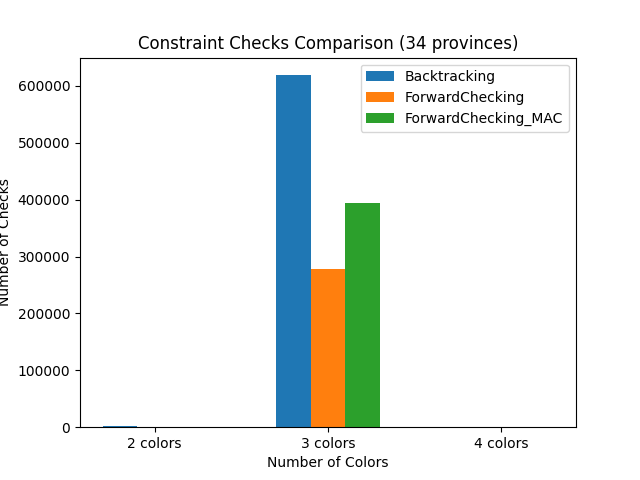
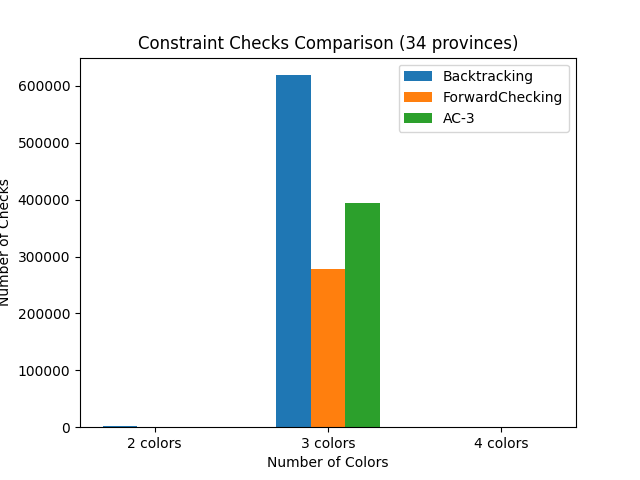
feat: implement AC-3 algorithm and integrate it into the map coloring experiment suite

Changed region(s): [[0.5625, 0.125, 0.875, 0.2812]]

diff --git a/experiments/run_34.py b/experiments/run_34.py
@@ -10,10 +10,12 @@ sys.path.insert(0, str(ROOT))
 
 from algorithms.csp import create_map_coloring_csp
 from algorithms.backtracking import BacktrackingSolver
+from algorithms.forward_checking import ForwardCheckingSolver
+from algorithms.ac3 import AC3Solver
 
 
-def run_backtracking(csp):
-    solver = BacktrackingSolver()
+def run_solver(solver_class, csp):
+    solver = solver_class()
     start = time.perf_counter()
     solution, steps, checks = solver.solve(csp)
     elapsed = time.perf_counter() - start
@@ -35,12 +37,33 @@ def main():
         colors_file=str(data / "colors.json"),
     )
 
-    print("Running CSP solver...")
+    print("Running CSP solvers for 34 regions...")
 
-    csp_copy = deepcopy(csp)
-    result = run_backtracking(csp_copy)
+    solvers = {
+        "Backtracking": BacktrackingSolver,
+        "Forward Checking": ForwardCheckingSolver,
+        "AC-3": AC3Solver
+    }
 
-    solution = result["solution"]
+    results_meta = {}
+    best_solution = None
+
+    for name, solver_class in solvers.items():
+        print(f"Running {name}...")
+        csp_copy = deepcopy(csp)
+        result = run_solver(solver_class, csp_copy)
+
+        results_meta[name] = {
+            "time": result["time"],
+            "steps": result["steps"],
+            "checks": result["checks"]
+        }
+
+        # Keep the first valid solution for frontend rendering
+        if best_solution is None:
+            best_solution = result["solution"]
+
+        print(f"  -> Time: {result['time']:.4f}s, Steps: {result['steps']}, Checks: {result['checks']}")
 
     # Save JSON for frontend
     out_path = ROOT / "experiments" / "results" / "solution_34.json"
@@ -48,15 +71,11 @@ def main():
 
     with out_path.open("w", encoding="utf-8") as f:
         json.dump({
-            "solution": solution,
-            "meta": {
-                "time": result["time"],
-                "steps": result["steps"],
-                "checks": result["checks"]
-            }
+            "solution": best_solution,
+            "meta": results_meta
         }, f, ensure_ascii=False, indent=2)
 
-    print(f"Saved solution to: {out_path}")
+    print(f"Saved aggregated solution to: {out_path}")
 
 
 if __name__ == "__main__":

diff --git a/experiments/run_63.py b/experiments/run_63.py
@@ -10,10 +10,12 @@ sys.path.insert(0, str(ROOT))
 
 from algorithms.csp import create_map_coloring_csp
 from algorithms.backtracking import BacktrackingSolver
+from algorithms.forward_checking import ForwardCheckingSolver
+from algorithms.ac3 import AC3Solver
 
 
-def run_backtracking(csp):
-    solver = BacktrackingSolver()
+def run_solver(solver_class, csp):
+    solver = solver_class()
     start = time.perf_counter()
     solution, steps, checks = solver.solve(csp)
     elapsed = time.perf_counter() - start
@@ -35,12 +37,33 @@ def main():
         colors_file=str(data / "colors.json"),
     )
 
-    print("Running CSP solver...")
+    print("Running CSP solvers for 63 regions...")
 
-    csp_copy = deepcopy(csp)
-    result = run_backtracking(csp_copy)
+    solvers = {
+        "Backtracking": BacktrackingSolver,
+        "Forward Checking": ForwardCheckingSolver,
+        "AC-3": AC3Solver
+    }
 
-    solution = result["solution"]
+    results_meta = {}
+    best_solution = None
+
+    for name, solver_class in solvers.items():
+        print(f"Running {name}...")
+        csp_copy = deepcopy(csp)
+        result = run_solver(solver_class, csp_copy)
+
+        results_meta[name] = {
+            "time": result["time"],
+            "steps": result["steps"],
+            "checks": result["checks"]
+        }
+
+        # Keep the first valid solution for frontend rendering
+        if best_solution is None:
+            best_solution = result["solution"]
+
+        print(f"  -> Time: {result['time']:.4f}s, Steps: {result['steps']}, Checks: {result['checks']}")
 
     # Save JSON for frontend
     out_path = ROOT / "experiments" / "results" / "solution_63.json"
@@ -48,15 +71,11 @@ def main():
 
     with out_path.open("w", encoding="utf-8") as f:
         json.dump({
-            "solution": solution,
-            "meta": {
-                "time": result["time"],
-                "steps": result["steps"],
-                "checks": result["checks"]
-            }
+            "solution": best_solution,
+            "meta": results_meta
         }, f, ensure_ascii=False, indent=2)
 
-    print(f"Saved solution to: {out_path}")
+    print(f"Saved aggregated solution to: {out_path}")
 
 
 if __name__ == "__main__":

diff --git a/experiments/run_experiments_34.py b/experiments/run_experiments_34.py
@@ -21,7 +21,7 @@ sys.path.insert(0, str(ROOT))
 from algorithms.csp import create_map_coloring_csp
 from algorithms.backtracking import BacktrackingSolver
 from algorithms.forward_checking import ForwardCheckingSolver
-from algorithms.ac3 import ac3
+from algorithms.ac3 import ac3, AC3Solver
 
 from experiments.measure_time import measure_solver
 
@@ -33,10 +33,12 @@ def backtracking(csp):
     return BacktrackingSolver().solve(csp)
 
 
-def forward_checking(mac=False):
-    def _run(csp):
-        return ForwardCheckingSolver().solve(csp, mac=mac)
-    return _run
+def forward_checking(csp):
+    return ForwardCheckingSolver().solve(csp, mac=False)
+
+
+def ac3_mac(csp):
+    return AC3Solver().solve(csp)
 
 
 # =========================
@@ -76,8 +78,8 @@ def main():
 
     algorithms = [
         ("Backtracking", backtracking),
-        ("ForwardChecking", forward_checking(False)),
-        ("ForwardChecking_MAC", forward_checking(True)),
+        ("ForwardChecking", forward_checking),
+        ("AC-3", ac3_mac),
     ]
 
     rows = []

diff --git a/experiments/run_experiments_63.py b/experiments/run_experiments_63.py
@@ -21,7 +21,7 @@ sys.path.insert(0, str(ROOT))
 from algorithms.csp import create_map_coloring_csp
 from algorithms.backtracking import BacktrackingSolver
 from algorithms.forward_checking import ForwardCheckingSolver
-from algorithms.ac3 import ac3
+from algorithms.ac3 import ac3, AC3Solver
 
 from experiments.measure_time import measure_solver
 
@@ -33,10 +33,12 @@ def backtracking(csp):
     return BacktrackingSolver().solve(csp)
 
 
-def forward_checking(mac=False):
-    def _run(csp):
-        return ForwardCheckingSolver().solve(csp, mac=mac)
-    return _run
+def forward_checking(csp):
+    return ForwardCheckingSolver().solve(csp, mac=False)
+
+
+def ac3_mac(csp):
+    return AC3Solver().solve(csp)
 
 
 # =========================
@@ -76,8 +78,8 @@ def main():
 
     algorithms = [
         ("Backtracking", backtracking),
-        ("ForwardChecking", forward_checking(False)),
-        ("ForwardChecking_MAC", forward_checking(True)),
+        ("ForwardChecking", forward_checking),
+        ("AC-3", ac3_mac),
     ]
 
     rows = []

diff --git a/algorithms/ac3.py b/algorithms/ac3.py
@@ -114,3 +114,15 @@ def _validate_csp(csp):
         for n in neighbors:
             if n not in csp.variables:
                 raise ValueError(f"Neighbor '{n}' không tồn tại trong variables")
+
+
+from typing import Dict, Any, Optional, Tuple
+
+class AC3Solver:
+    """
+    Trình giải bài toán tô màu bản đồ sử dụng Backtracking kết hợp với AC-3 (MAC - Maintaining Arc Consistency).
+    """
+    def solve(self, csp) -> Tuple[Optional[Dict[str, Any]], int, int]:
+        from .forward_checking import ForwardCheckingSolver
+        solver = ForwardCheckingSolver()
+        return solver.solve(csp, mac=True)
